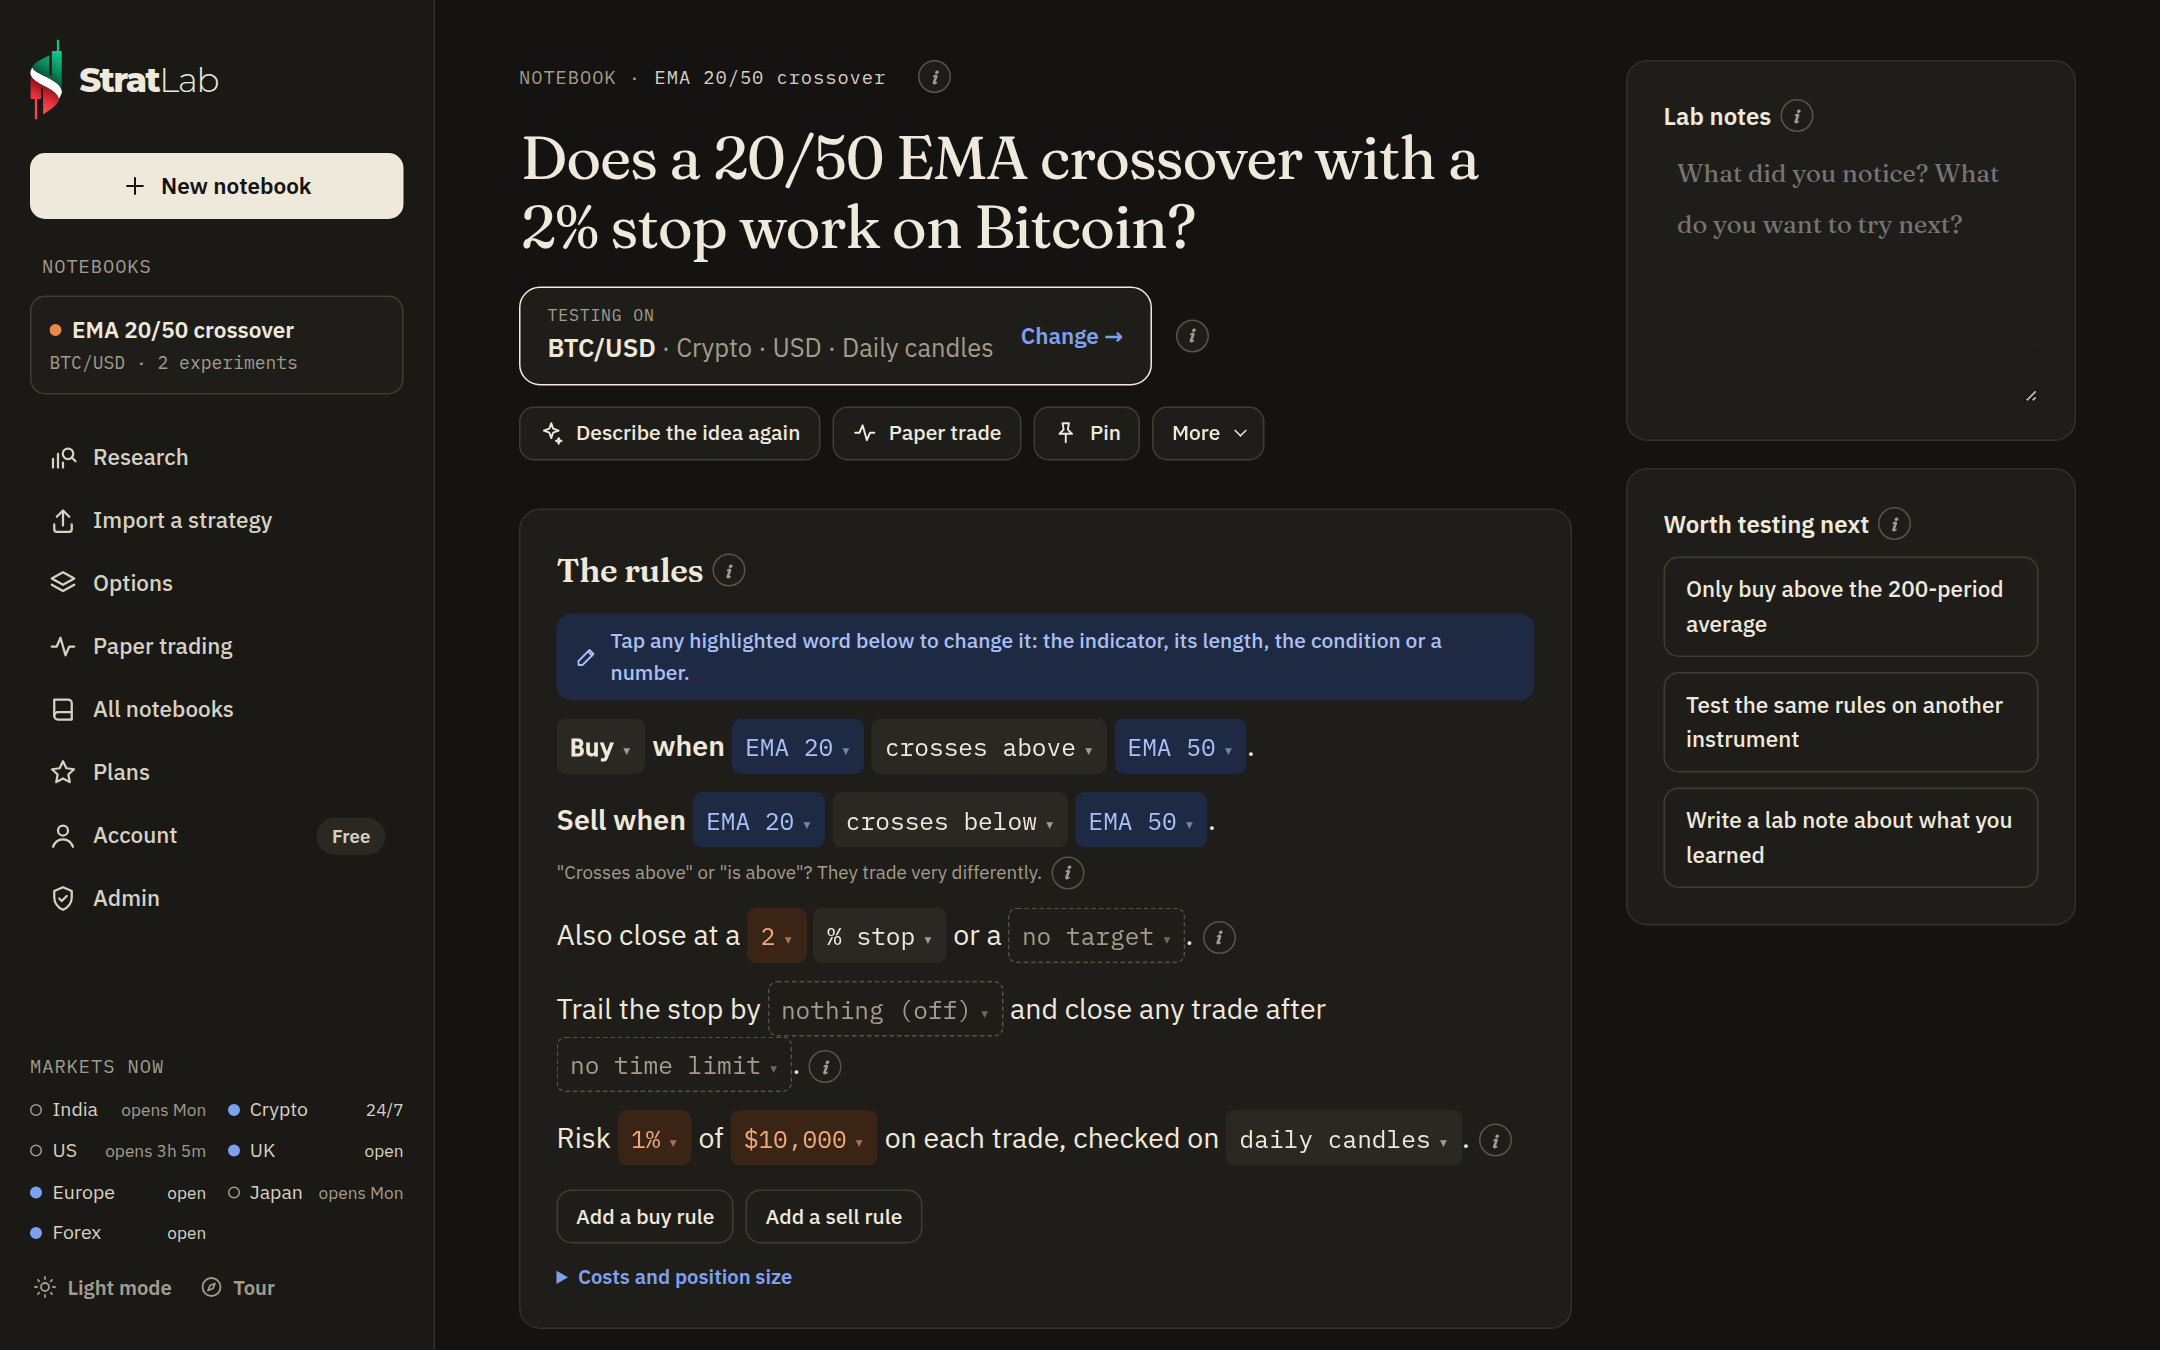
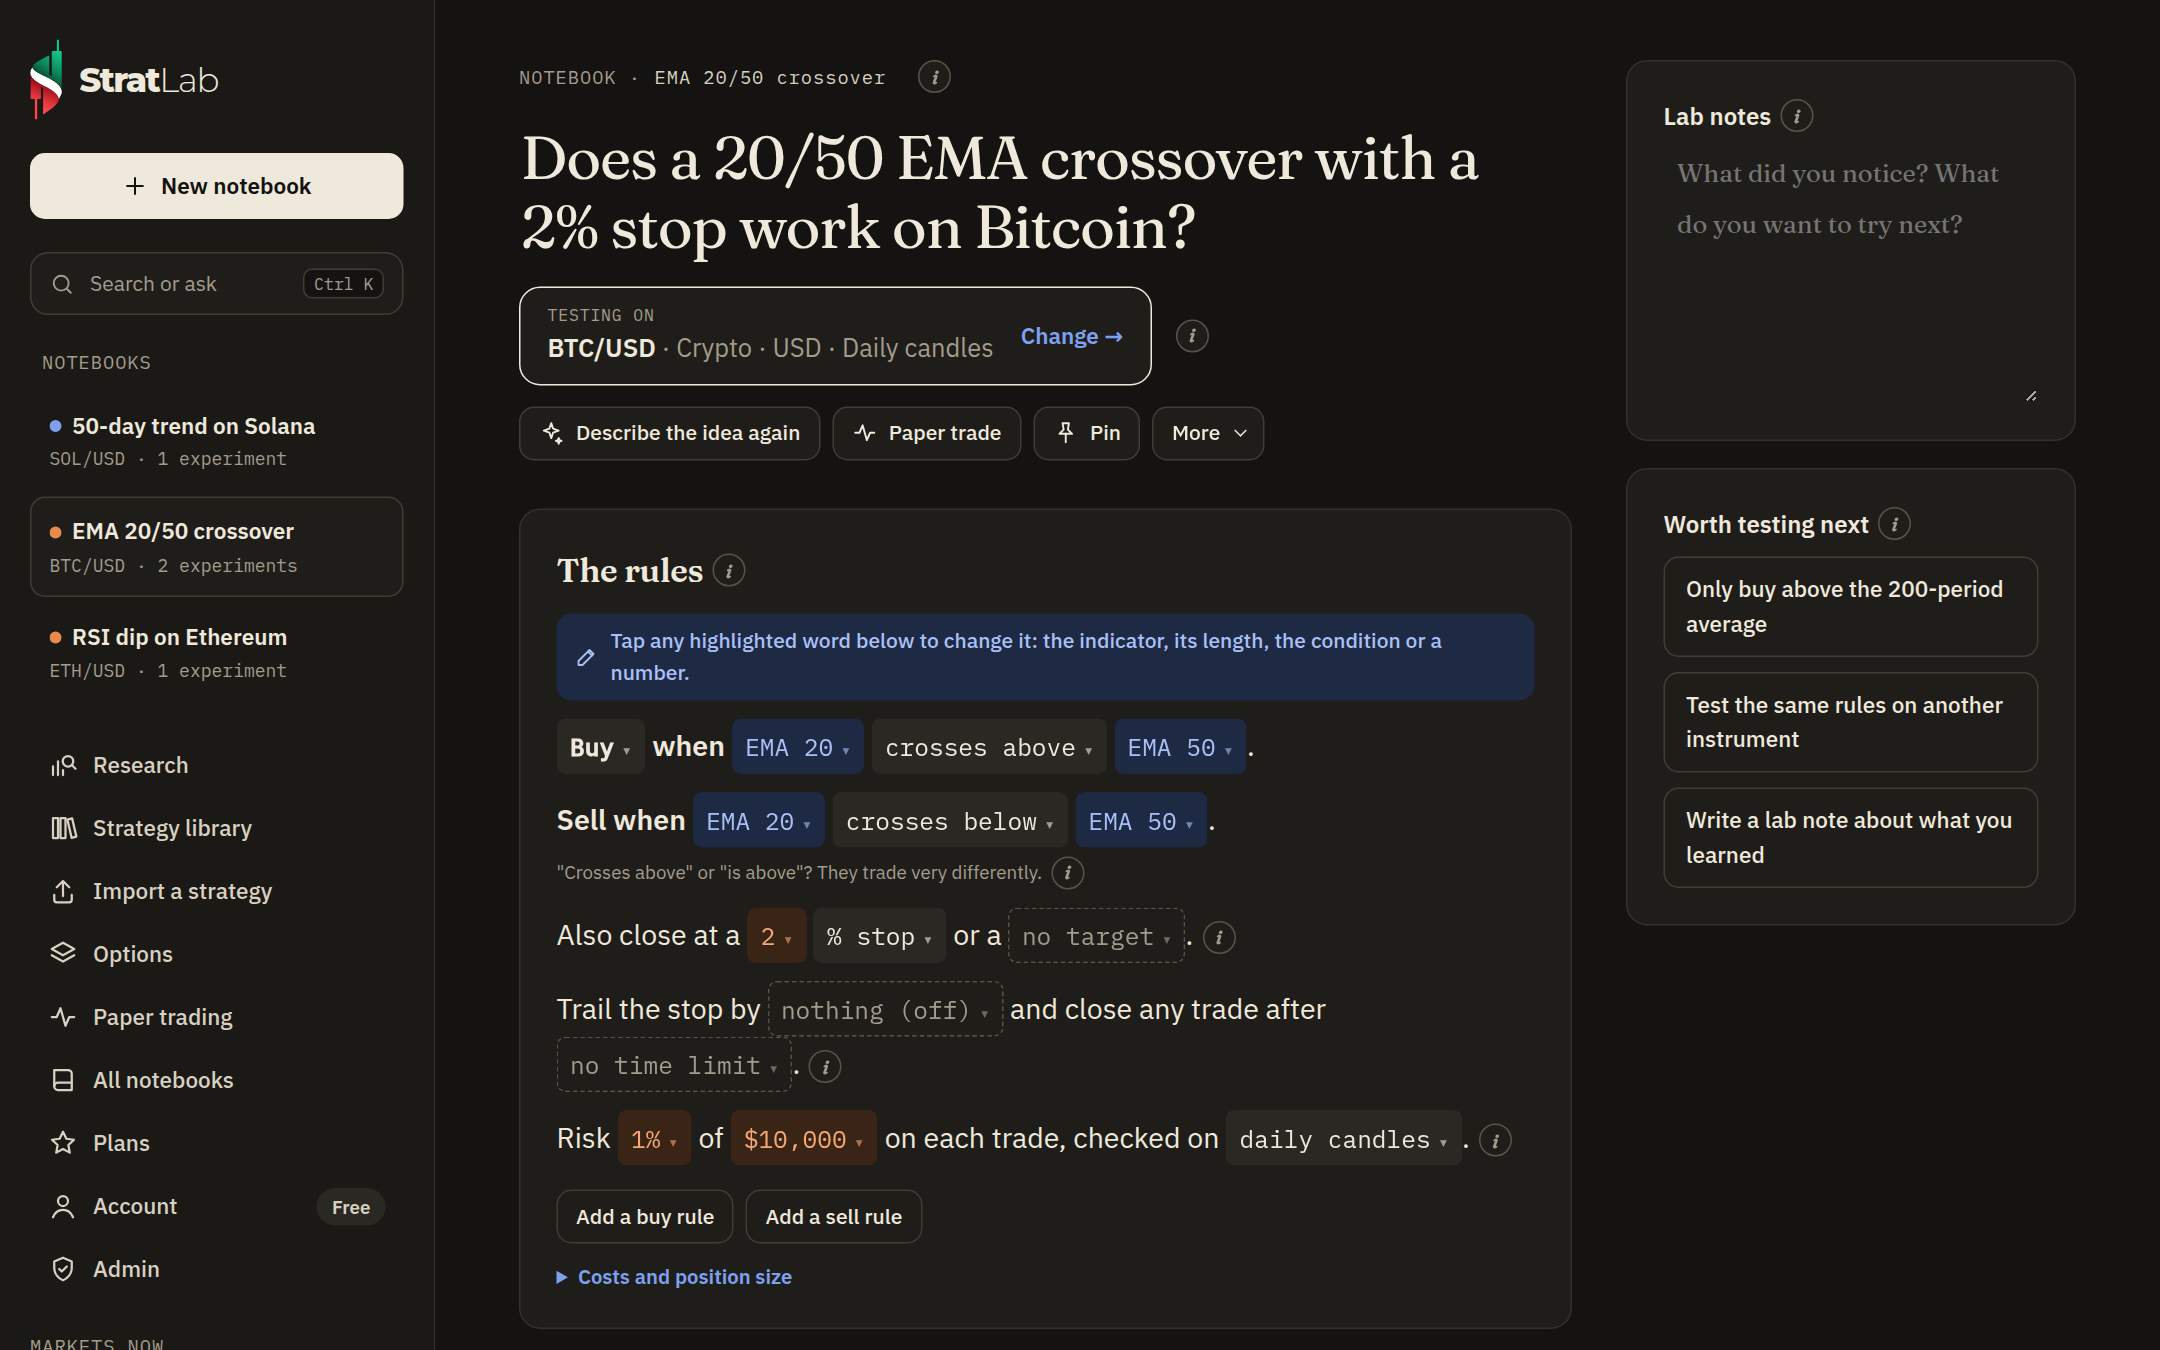
Refresh README screenshots; add search and library
Retakes every app screenshot so they show the current sidebar (Search
or ask, Strategy library), the verdict Next bar and the rest of the
recent UI, and adds two new ones: the Ctrl+K search answering a
question with testable ideas, and the strategy library.

Claude-Session: https://claude.ai/code/session_01QCGeNSveSSmNFs12Q4F29N

diff --git a/README.md b/README.md
@@ -76,6 +76,16 @@ Most backtesting tools show a flattering chart. StratLab tells you whether the e
   <img alt="A research page for Reliance Industries: price chart, 52-week range and a button to test a strategy on it" src="docs/images/research-light.png">
 </picture>
 
+<picture>
+  <source media="(prefers-color-scheme: dark)" srcset="docs/images/search-dark.png">
+  <img alt="Search or ask (Ctrl+K): a question like 'momentum ideas for bank stocks' returns four testable ideas, plus matching features" src="docs/images/search-light.png">
+</picture>
+
+<picture>
+  <source media="(prefers-color-scheme: dark)" srcset="docs/images/library-dark.png">
+  <img alt="The strategy library: published rules with their honest verdicts, 'Likely real edge' next to 'No edge', each with a Copy and re-test button" src="docs/images/library-light.png">
+</picture>
+
 ## Everything you can do, and where to find it
 
 New here? A short tour pops up the first time you sign in. You can reopen it any time from **Tour** at the bottom of the sidebar. Hover (or tap) a market under **Markets now** to see when it opens or closes.
